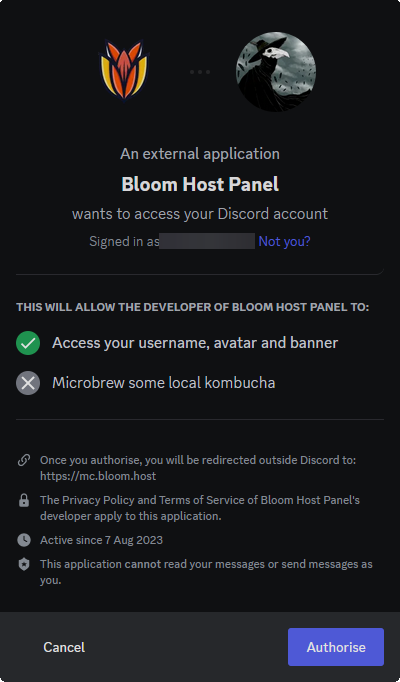
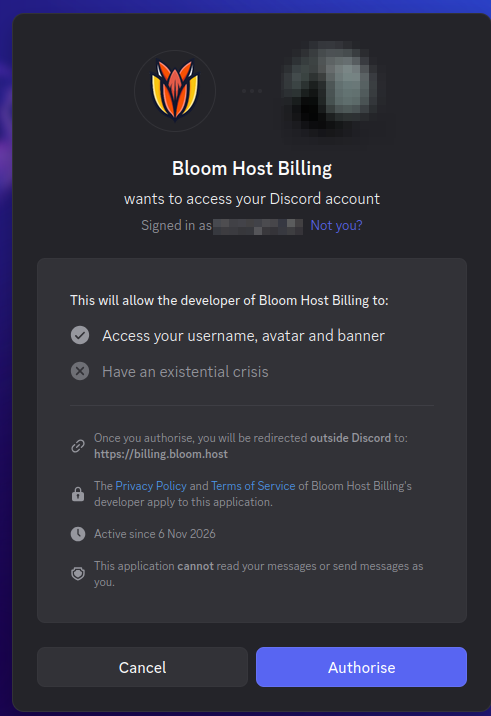
docs: connect discord from the billing portal's profile page

diff --git a/docs/extras/account-details.md b/docs/extras/account-details.md
@@ -30,6 +30,36 @@ Now, click **Update** under Your Info.
 
 This area lets you edit any details about your account from payment methods to emails sent to changing your password. Once done, click **Save Changes** for all your changes to take effect. 
 
+### Discord Linking
+
+You can connect your Discord account to your billing login. When you open a ticket in our Discord, our staff will then
+see the services you own or have access to, and we can confirm it's really you when you ask for help. We never show your
+name or other private details in Discord. Please note that any significant changes to your server will still require
+opening a billing ticket as confirmation.
+
+While logged in to the Billing Portal, head to the [Discord Account](https://billing.bloom.host/user/profile#discord-account)
+section of your profile and click **Connect Discord**.
+
+![Discord Account section of the Billing Portal profile with the Connect Discord button](/extras/account_details/link.png)
+
+This will redirect you to Discord's authorization site. Make sure you are logged in with the correct account and click
+**Authorise**.
+
+![Discord's authorization page for Bloom Host Billing](/extras/account_details/authorize.png)
+
+You will be redirected back to your profile in the Billing Portal, where it will show the Discord account you are
+connected to. Each billing login can be connected to one Discord account at a time.
+
+![Discord Account section showing the connected Discord account](/extras/account_details/linked.png)
+
+If you ever need to disconnect it, click **Disconnect Discord** on the same page.
+
+The Billing Portal only uses Discord's authorization to see which account is yours, so you can also remove **Bloom Host
+Billing** with **Deauthorise** under **Authorised Apps** in your Discord settings. This does not disconnect it from your
+billing login, so use **Disconnect Discord** for that.
+
+![Discord's Authorised Apps page with the Deauthorise button for Bloom Host Billing](/extras/account_details/deauthorize.png)
+
 ---
 
 ## DuckPanel
@@ -42,28 +72,3 @@ Simply edit any details that you need. Once you have completed a section, click 
 changes needed.
 
 ![Main DuckPanel account tab](/extras/account_details/5.png)
-
----
-
-### Discord Linking
-
-Here you can also set up your Discord account.
-
-When your Discord and DuckPanel accounts are linked, our staff will see all the servers you own or have access to when
-you open a ticket. Please note that any significant changes to your server will still require opening a billing ticket
-as confirmation.
-
-Simply click 'Link Account' which will redirect to Discord's authorization site.
-
-![Unlinked Discord account status](/extras/account_details/link.png)
-
-Make sure you are logged in with the correct account and click 'Authorise'.
-
-![Discord's authorization page](/extras/account_details/authorize.png)
-
-You will be redirected back to the DuckPanel where it will show your currently linked account.
-![Linked Discord account status](/extras/account_details/linked.png)
-
-If you ever need to unlink your account, simply click 'Unlink Account' in the panel, or 'Deauthorise' under 'Authorised
-Apps' in your Discord settings.
-![Discord Authorized Apps page with the Deauthorize button](/extras/account_details/deauthorize.png)
